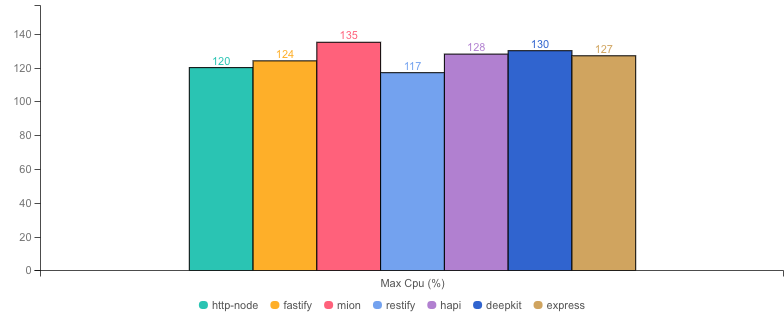
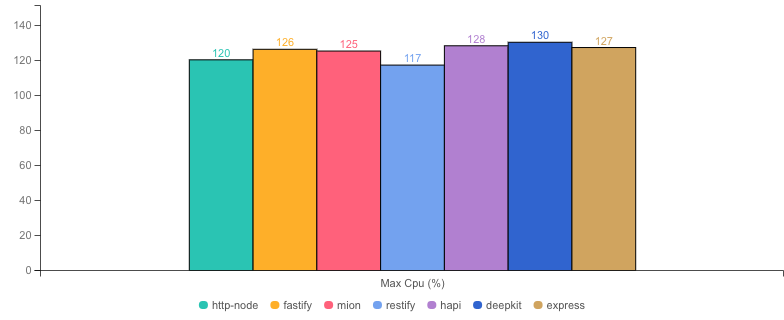
update to latest mion version and add timeseries metric

diff --git a/benchmark-compare.js b/benchmark-compare.js
@@ -6,14 +6,16 @@ const commander = require("commander");
 const inquirer = require("inquirer");
 const Table = require("cli-table");
 const chalk = require("chalk");
-const { join, relative } = require("path");
+const { join } = require("path");
 const { readdirSync, readFileSync, writeFileSync } = require("fs");
 const { info } = require("./lib/packages");
 const { compare } = require("./lib/autocannon");
-const { chartScreenshot } = require("./lib/chart-screenshot");
+const {
+  getMarkdownBarChart,
+  getMarkdownChartMemSeries,
+} = require("./lib/chart-screenshot");
 
 const resultsPath = join(process.cwd(), "results");
-const chartPaths = join(process.cwd(), "assets", "public", "charts");
 
 commander
   .option("-t, --table", "print table")
@@ -33,7 +35,14 @@ async function runCompare() {
   } else if (opts.update) {
     const outputResults = getOutputResults();
     const markdownChartImages = await getMarkdownCharts(outputResults);
-    await updateReadme(markdownChartImages, outputResults);
+
+    // disable memory series as it doesn't gives much more info than max memory
+    // const memSeriesChartImages = await getMarkdownChartMemSeries(
+    //   outputResults,
+    //   `memSeries`,
+    //   `Memory Series (MB)`
+    // );
+    await updateReadme(markdownChartImages, null, outputResults);
   } else if (opts.table) {
     console.log(compareResults(opts.markdown));
   } else {
@@ -52,7 +61,11 @@ function formatHasRouter(hasRouter) {
   return typeof hasRouter === "string" ? hasRouter : hasRouter ? "✓" : "✗";
 }
 
-async function updateReadme(markdownChartImages, outputResults) {
+async function updateReadme(
+  markdownChartImages,
+  memSeriesChartImages,
+  outputResults
+) {
   const machineInfo = `${os.platform()} ${os.arch()} | ${
     os.cpus().length
   } vCPUs | ${(os.totalmem() / 1024 ** 3).toFixed(1)}GB Mem`;
@@ -64,6 +77,8 @@ async function updateReadme(markdownChartImages, outputResults) {
 * __Method:__ \`autocannon -c 100 -d 40 -p 10 localhost:3000\` (two rounds; one to warm-up, one to measure)
 
 ${markdownChartImages ? markdownChartImages : ""}
+
+${memSeriesChartImages ? memSeriesChartImages : ""}
 
 ${compareResults(true, outputResults)}
 `;
@@ -181,6 +196,7 @@ function getOutputResults() {
       description: description,
       maxMem: (result.maxMem / 1000_000).toFixed(0),
       maxCpu: result.maxCpu.toFixed(0),
+      memSeries: result.memSeries.map((mem) => (mem / 1000_000).toFixed(0)),
     });
   }
 
@@ -255,58 +271,17 @@ async function getMarkdownCharts(outputResults) {
     { metricName: "throughput", metricLabel: "Throughput (Mb/s)" },
     { metricName: "latency", metricLabel: "Latency (ms)" },
     { metricName: "maxMem", metricLabel: "Max Memory (Mb)" },
-    { metricName: "maxCpu", metricLabel: "Max Cpu (%)" },
+    // cpu disabled as doesn't seems to be too reliable
+    // { metricName: "maxCpu", metricLabel: "Max Cpu (%)" },
   ];
 
   const results = await Promise.all(
     charts.map(({ metricName, metricLabel }) =>
-      getMarkdownChat(outputResults, metricName, metricLabel)
+      getMarkdownBarChart(outputResults, metricName, metricLabel)
     )
   );
 
   return results.join("\n\n");
-}
-
-async function getMarkdownChat(outputResults, metricName, metricLabel) {
-  const columnsData = outputResults.map((result) => [
-    `${result.name}`,
-    `${result[metricName]}`,
-  ]);
-
-  // const max = outputResults.reduce((acc, result) => {
-  //   return Math.max(acc, parseFloat(result[metricName]));
-  // }, 0);
-
-  const file = await chartScreenshot(
-    {
-      data: {
-        x: "x",
-        columns: [["x", metricLabel], ...columnsData],
-        type: "bar",
-        labels: true,
-      },
-      axis: {
-        // y: {
-        //   show: false,
-        //   type: "log",
-        //   max: max * 1.5,
-        // },
-        x: {
-          type: "category",
-        },
-      },
-      transition: {
-        duration: 0,
-      },
-    },
-    chartPaths,
-    metricName
-  );
-
-  const relativePath = relative(process.cwd(), file);
-  console.log(`relativePath ${relativePath}`);
-
-  return `#### ${metricLabel} \n\n![benchmarks](${relativePath})\n\n`;
 }
 
 runCompare();

diff --git a/lib/chart-screenshot.js b/lib/chart-screenshot.js
@@ -3,7 +3,9 @@ const { promisify } = require("util");
 const fs = require("fs");
 const mkdir = promisify(fs.mkdir);
 const access = promisify(fs.access);
-const { join } = require("path");
+const { join, relative } = require("path");
+
+const chartPaths = join(process.cwd(), "assets", "public", "charts");
 
 /**
  * Generate chart image screenshot
@@ -66,3 +68,91 @@ async function ensureDirectoryExist(directory) {
     await mkdir(directory);
   }
 }
+
+module.exports.getMarkdownChartMemSeries = async function (
+  outputResults,
+  metricName,
+  metricLabel
+) {
+  const columnsData = outputResults.map((result) => [
+    `${result.name}`,
+    ...result.memSeries,
+  ]);
+
+  const file = await module.exports.chartScreenshot(
+    {
+      data: {
+        columns: columnsData,
+        type: "area",
+        labels: true,
+      },
+      axis: {
+        y: {
+          // type: "log",
+          label: "Memory (Mb)",
+        },
+        // x: {
+        //   type: "category",
+        //   label: "Number of routes",
+        //   min: 1,
+        // },
+      },
+      transition: {
+        duration: 0,
+      },
+    },
+    chartPaths,
+    metricName
+  );
+
+  const relativePath = relative(process.cwd(), file);
+  console.log(`relativePath ${relativePath}`);
+
+  return `#### ${metricLabel} \n\n![benchmarks](${relativePath})\n\n`;
+};
+
+module.exports.getMarkdownBarChart = async function (
+  outputResults,
+  metricName,
+  metricLabel
+) {
+  const columnsData = outputResults.map((result) => [
+    `${result.name}`,
+    `${result[metricName]}`,
+  ]);
+
+  // const max = outputResults.reduce((acc, result) => {
+  //   return Math.max(acc, parseFloat(result[metricName]));
+  // }, 0);
+
+  const file = await module.exports.chartScreenshot(
+    {
+      data: {
+        x: "x",
+        columns: [["x", metricLabel], ...columnsData],
+        type: "bar",
+        labels: true,
+      },
+      axis: {
+        // y: {
+        //   show: false,
+        //   type: "log",
+        //   max: max * 1.5,
+        // },
+        x: {
+          type: "category",
+        },
+      },
+      transition: {
+        duration: 0,
+      },
+    },
+    chartPaths,
+    metricName
+  );
+
+  const relativePath = relative(process.cwd(), file);
+  console.log(`relativePath ${relativePath}`);
+
+  return `#### ${metricLabel} \n\n![benchmarks](${relativePath})\n\n`;
+};

diff --git a/lib/autocannon.js b/lib/autocannon.js
@@ -29,6 +29,8 @@ const run = (opts = {}, handler) =>
     };
     let maxMem = 0;
     let maxCpu = 0;
+    let memSeries = [];
+    let cpuSeries = [];
     const memCheck = setInterval(() => {
       pidusage(opts.forkedPid, (err, stats) => {
         if (err) {
@@ -40,6 +42,8 @@ const run = (opts = {}, handler) =>
           if (stats.cpu > maxCpu) {
             maxCpu = stats.cpu;
           }
+          memSeries.push(stats.memory);
+          cpuSeries.push(stats.cpu);
         }
       });
     }, 1000);
@@ -52,6 +56,8 @@ const run = (opts = {}, handler) =>
           ...result,
           maxMem,
           maxCpu,
+          memSeries,
+          cpuSeries,
         });
       }
     });

diff --git a/metrics/startup-mion-routes.js b/metrics/startup-mion-routes.js
@@ -3,6 +3,8 @@ const start = process.hrtime();
 const { initHttp, addRoutes, routes } = require("../_compiled-apps/apps");
 const { startHttpServer } = require("@mionkit/http");
 
+console.log("child pid", process.pid);
+
 const totalRoutes = process.env.routes || 0;
 const defaultRoute = routes["/"]; // this handler contains type information.
 const routerRoutes = {};

diff --git a/metrics/startup.js b/metrics/startup.js
@@ -38,6 +38,7 @@ const measureStartupMion = runSample(async () => {
   console.log("#### mion metrics ####");
   for (const n of routeNumbers) {
     await new Promise((resolve) => {
+      console.log("parent pid", process.pid);
       new Worker(path.join(__dirname, "./startup-mion-routes.js"), {
         env: {
           routes: n,

diff --git a/README.md b/README.md
@@ -84,7 +84,7 @@ app.post("/updateUser", function (req, res) {
 
 * __Machine:__ darwin x64 | 8 vCPUs | 16.0GB Mem
 * __Node:__ `v16.18.0`
-* __Run:__ Sun Jul 09 2023 01:09:31 GMT+0100 (Irish Standard Time)
+* __Run:__ Sun Jul 09 2023 15:32:53 GMT+0100 (Irish Standard Time)
 * __Method:__ `autocannon -c 100 -d 40 -p 10 localhost:3000` (two rounds; one to warm-up, one to measure)
 
 #### Req (R/s) 
@@ -111,18 +111,14 @@ app.post("/updateUser", function (req, res) {
 
 
 
-#### Max Cpu (%) 
-
-![benchmarks](assets/public/charts/maxCpu.png)
-
 
 
 |           | Version        | Router | Req (R/s)   | Latency (ms) | Output (Mb/s) | Max Memory (Mb) | Max Cpu (%) | Validation | Description                                                                                                |
 | :--       | --:            | --:    | :-:         | --:          | --:           | --:             | --:         | :-:        | :--                                                                                                        |
-| http-node | 16.18.0        | ✗      | 17992.5     | 55.10        | 4.62          | 77              | 120         | ✗          | Super basic and completely useless bare http server, should be the theoretical upper limit in performance. |
-| fastify   | 4.19.2         | ✓      | 17514.1     | 56.59        | 4.51          | 89              | 124         | -          | Validation is done using schemas and ajv. Schemas must be generated manually or using third party tools.   |
-| **mion**  | **0.1.0**      | **✓**  | **14845.6** | **66.89**    | **4.12**      | **188**         | **135**     | **✓**      | **Automatic validation out of the box using @deepkit/types.**                                              |
-| restify   | 8.6.1          | ✓      | 11060.0     | 89.85        | 2.86          | 108             | 117         | ✗          | Requires third party tools.                                                                                |
-| hapi      | 20.3.0         | ✓      | 7741.8      | 128.53       | 1.99          | 114             | 128         | ✗          | Manual validation using joi, or third party tools.                                                         |
-| deepkit   | 1.0.1-alpha.75 | ✓      | 5185.0      | 192.09       | 1.33          | 286             | 130         | ✓          | Automatic validation out of the box (The ones that made @deepkit/types), Their rpc is way more performant. |
-| express   | 4.18.2         | ✓      | 4558.4      | 218.46       | 1.17          | 112             | 127         | ✗          | needs third party tools, or third party tools                                                              |
+| http-node | 16.18.0        | ✗      | 18776.1     | 52.75        | 4.82          | 77              | 121         | ✗          | Super basic and completely useless bare http server, should be the theoretical upper limit in performance. |
+| fastify   | 4.19.2         | ✓      | 16573.8     | 59.81        | 4.27          | 89              | 119         | -          | Validation is done using schemas and ajv. Schemas must be generated manually or using third party tools.   |
+| **mion**  | **0.1.0**      | **✓**  | **15028.2** | **66.01**    | **4.17**      | **171**         | **128**     | **✓**      | **Automatic validation out of the box using @deepkit/types.**                                              |
+| restify   | 8.6.1          | ✓      | 12100.8     | 82.09        | 3.13          | 94              | 124         | ✗          | Requires third party tools.                                                                                |
+| hapi      | 20.3.0         | ✓      | 7987.1      | 124.58       | 2.05          | 94              | 129         | ✗          | Manual validation using joi, or third party tools.                                                         |
+| deepkit   | 1.0.1-alpha.75 | ✓      | 5498.7      | 181.03       | 1.41          | 286             | 143         | ✓          | Automatic validation out of the box (The ones that made @deepkit/types), Their rpc is way more performant. |
+| express   | 4.18.2         | ✓      | 4554.9      | 218.50       | 1.17          | 111             | 117         | ✗          | needs third party tools, or third party tools                                                              |

diff --git a/HISTORY.md b/HISTORY.md
@@ -1,0 +1,46 @@
+# History metrics
+
+This is the performance evolution of the mion http library across new versions.
+
+The tricky part is to get the measurements always in the same machine to get similar results.
+
+## Metrics
+
+- **Machine:** darwin x64 | 8 vCPUs | 16.0GB Mem
+- **Node:** `v16.18.0`
+- **Run:** Sat Jul 08 2023 20:09:04 GMT+0100 (Irish Standard Time)
+- **Method:** `npm run metrics` (samples: 5)
+- **startup:** time elapsed to setup the application
+- **listen:** time elapsed until the http server is ready to accept requests (cold start)
+
+### Cold starts: listen time (ms) lower is better
+
+![benchmarks](assets/public/charts/cold-starts.png)
+
+|                                | startup(ms) | listen(ms) |
+| ------------------------------ | ----------- | ---------- |
+| 10-startup-deepkit-routes.js   | 1496        | 1497       |
+| 10-startup-fastify-routes.js   | 159         | 237        |
+| 10-startup-mion-routes.js      | 502         | 508        |
+| 100-startup-deepkit-routes.js  | 1467        | 1468       |
+| 100-startup-fastify-routes.js  | 179         | 381        |
+| 100-startup-mion-routes.js     | 506         | 513        |
+| 500-startup-deepkit-routes.js  | 1632        | 1633       |
+| 500-startup-fastify-routes.js  | 263         | 836        |
+| 500-startup-mion-routes.js     | 503         | 513        |
+| 1000-startup-deepkit-routes.js | 1416        | 1418       |
+| 1000-startup-fastify-routes.js | 425         | 1524       |
+| 1000-startup-mion-routes.js    | 503         | 516        |
+| 2000-startup-deepkit-routes.js | 1468        | 1469       |
+| 2000-startup-fastify-routes.js | 603         | 2646       |
+| 2000-startup-mion-routes.js    | 505         | 533        |
+| 3000-startup-deepkit-routes.js | 1464        | 1465       |
+| 3000-startup-fastify-routes.js | 874         | 3765       |
+| 3000-startup-mion-routes.js    | 502         | 536        |
+| 4000-startup-deepkit-routes.js | 1516        | 1518       |
+| 4000-startup-fastify-routes.js | 1311        | 5212       |
+| 4000-startup-mion-routes.js    | 500         | 537        |
+| 5000-startup-deepkit-routes.js | 1608        | 1610       |
+| 5000-startup-fastify-routes.js | 2039        | 7468       |
+| 5000-startup-mion-routes.js    | 498         | 542        |
+| startup-listen.js              | 537         | 539        |
